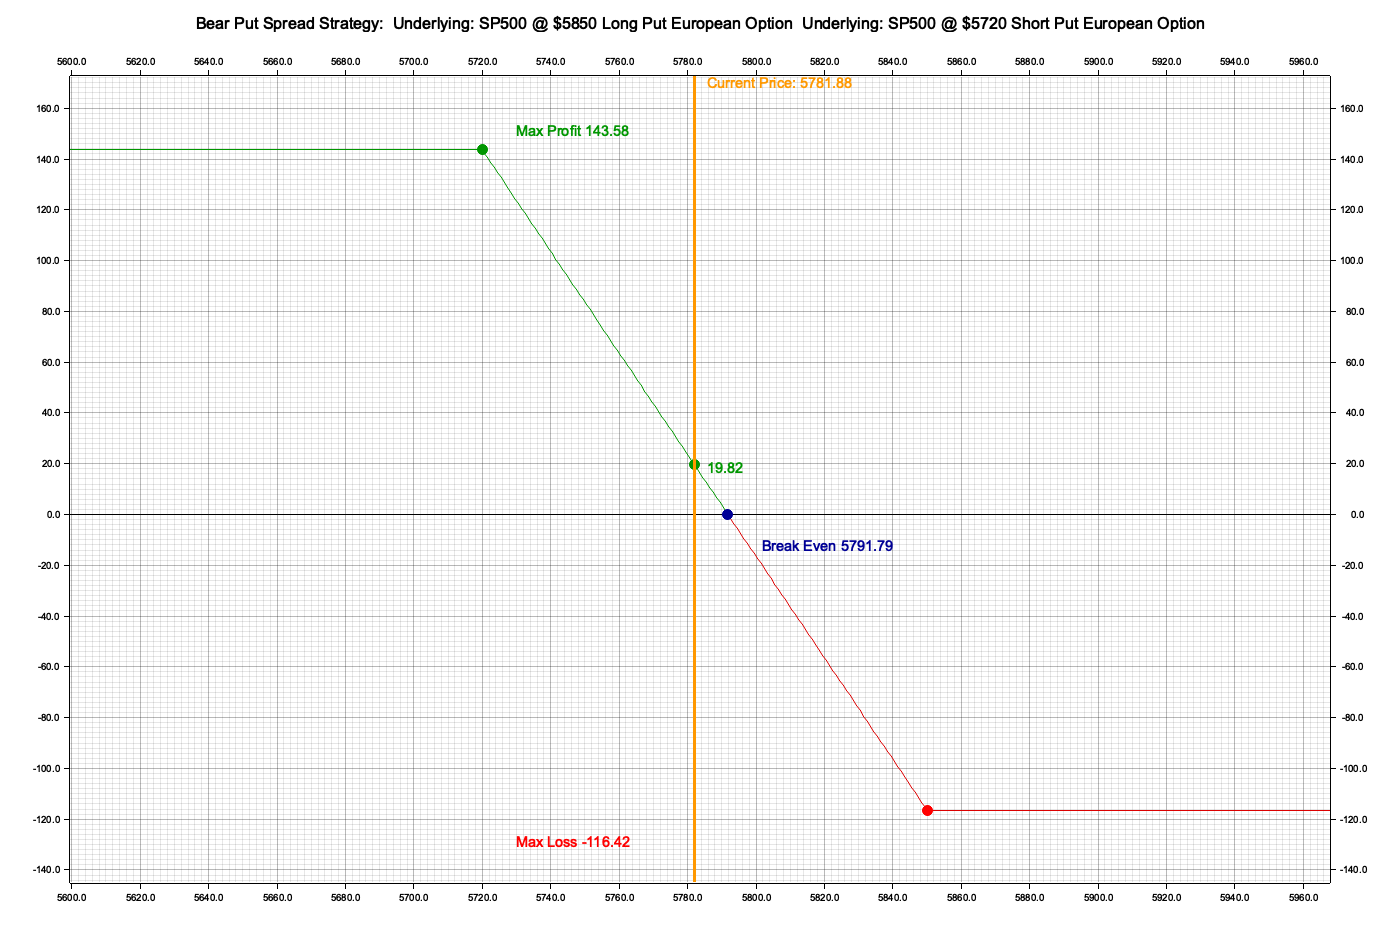
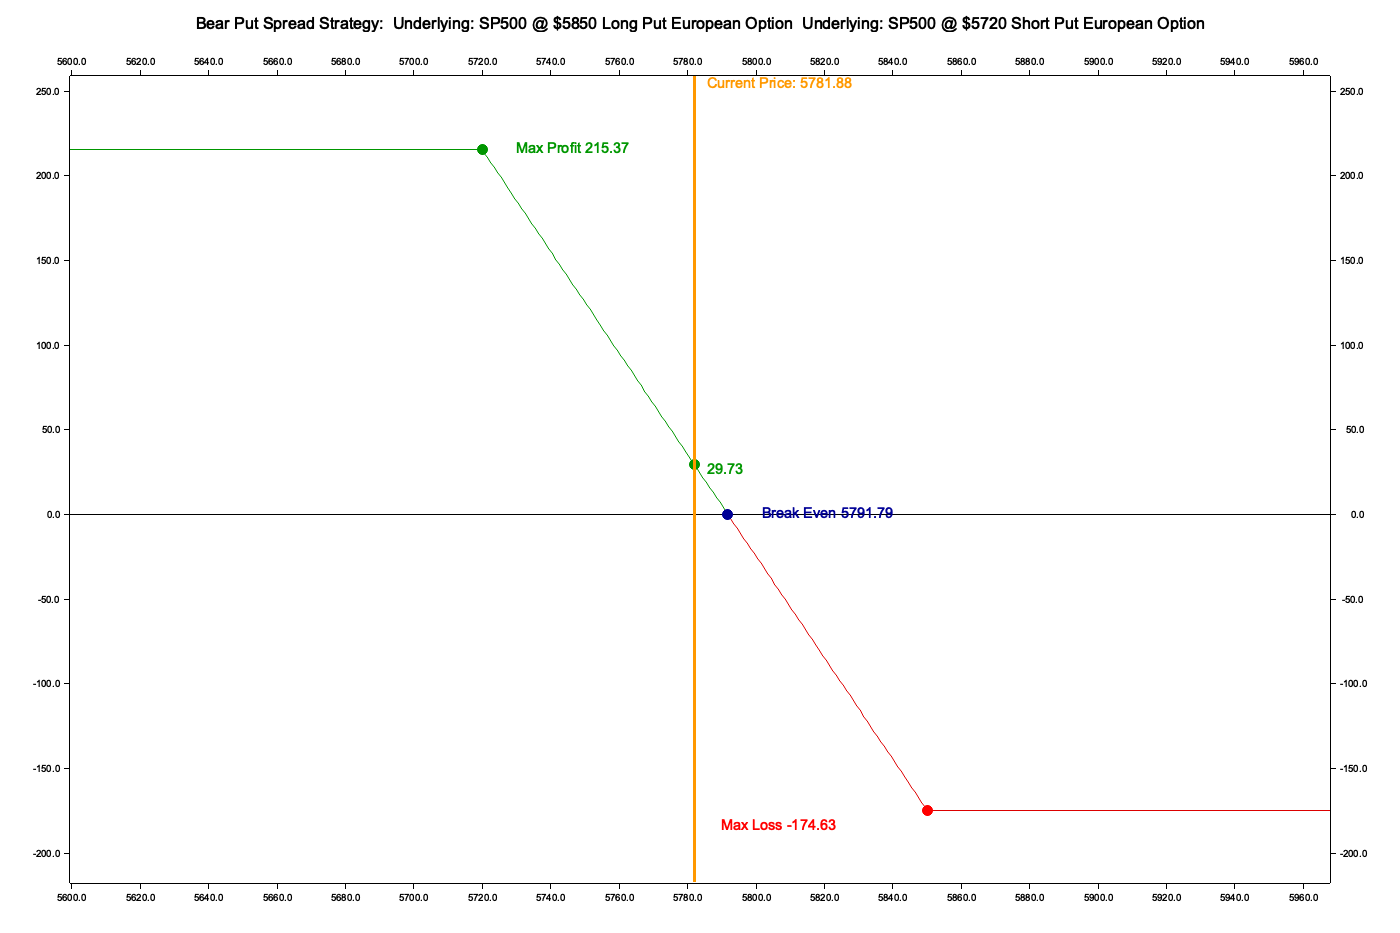
Update bear put spread logic and imports
Adjusted long position quantity and corrected break-even calculation logic. Removed redundant fee calculation method and reorganized imports for better clarity and modularity. (ref. #83)

Changed region(s): [[0.0307, 0.0932, 0.9829, 0.9325]]

diff --git a/src/strategies/bear_put_spread.rs b/src/strategies/bear_put_spread.rs
@@ -14,36 +14,31 @@ Key characteristics:
 - Also known as a vertical put debit spread
 */
 
-use super::base::{Optimizable, Positionable, Strategies, StrategyType, Validable};
+
+use chrono::Utc;
+use num_traits::FromPrimitive;
+use plotters::prelude::full_palette::ORANGE;
+use plotters::prelude::{ShapeStyle, RED};
+use rust_decimal::Decimal;
+use tracing::{debug, info};
+use crate::model::{Position, ProfitLossRange};
+use crate::{d2fu, pos, ExpirationDate, OptionStyle, OptionType, Options, Positive, Side};
 use crate::chains::chain::OptionChain;
-use crate::chains::utils::OptionDataGroup;
 use crate::chains::StrategyLegs;
+use crate::chains::utils::OptionDataGroup;
 use crate::constants::{DARK_BLUE, DARK_GREEN, ZERO};
 use crate::error::position::PositionError;
 use crate::error::probability::ProbabilityError;
 use crate::error::strategies::{ProfitLossErrorKind, StrategyError};
 use crate::greeks::equations::{Greek, Greeks};
-use crate::model::position::Position;
-use crate::model::types::{ExpirationDate, OptionStyle, OptionType, Side};
 use crate::model::utils::mean_and_std;
-use crate::model::ProfitLossRange;
-use crate::pricing::payoff::Profit;
-use crate::strategies::delta_neutral::{
-    DeltaAdjustment, DeltaInfo, DeltaNeutrality, DELTA_THRESHOLD,
-};
-use crate::strategies::probabilities::core::ProbabilityAnalysis;
-use crate::strategies::probabilities::utils::VolatilityAdjustment;
-use crate::strategies::utils::{FindOptimalSide, OptimizationCriteria};
+use crate::pricing::Profit;
+use crate::strategies::base::{Optimizable, Positionable, StrategyType, Validable};
+use crate::strategies::{DeltaAdjustment, DeltaInfo, DeltaNeutrality, FindOptimalSide, Strategies, DELTA_THRESHOLD};
+use crate::strategies::probabilities::{ProbabilityAnalysis, VolatilityAdjustment};
+use crate::strategies::utils::OptimizationCriteria;
 use crate::visualization::model::{ChartPoint, ChartVerticalLine, LabelOffsetType};
 use crate::visualization::utils::Graph;
-use crate::Options;
-use crate::{d2fu, pos, Positive};
-use chrono::Utc;
-use num_traits::{FromPrimitive, ToPrimitive};
-use plotters::prelude::full_palette::ORANGE;
-use plotters::prelude::{ShapeStyle, RED};
-use rust_decimal::Decimal;
-use tracing::{debug, info};
 
 const BEAR_PUT_SPREAD_DESCRIPTION: &str =
     "A bear put spread is created by buying a put option with a higher strike price \
@@ -151,7 +146,7 @@ impl BearPutSpread {
 
         // Calculate break-even point
         strategy.break_even_points.push(
-            long_strike - strategy.net_premium_received().unwrap().to_f64().unwrap() / quantity,
+            long_strike - strategy.net_premium_received().unwrap() / quantity,
         );
 
         strategy
@@ -216,14 +211,7 @@ impl Strategies for BearPutSpread {
         let result = self.long_put.net_cost() - self.short_put.net_premium_received();
         Ok(Decimal::from_f64(result).unwrap())
     }
-
-    fn fees(&self) -> Result<Decimal, StrategyError> {
-        let result = self.long_put.open_fee
-            + self.long_put.close_fee
-            + self.short_put.open_fee
-            + self.short_put.close_fee;
-        Ok(Decimal::from_f64(result).unwrap())
-    }
+    
 
     fn profit_area(&self) -> Result<Decimal, StrategyError> {
         let high = self.max_profit().unwrap_or(Positive::ZERO);
@@ -573,6 +561,7 @@ impl DeltaNeutrality for BearPutSpread {
 
 #[cfg(test)]
 mod tests_bear_put_spread_strategy {
+    use num_traits::ToPrimitive;
     use super::*;
     use crate::model::types::ExpirationDate;
     use crate::pos;
@@ -915,6 +904,7 @@ mod tests_bear_put_spread_validation {
 
 #[cfg(test)]
 mod tests_bear_put_spread_optimization {
+    use num_traits::ToPrimitive;
     use super::*;
     use rust_decimal_macros::dec;
 

diff --git a/examples/examples_strategies/src/bin/strategy_bear_put_spread.rs b/examples/examples_strategies/src/bin/strategy_bear_put_spread.rs
@@ -28,7 +28,7 @@ fn main() -> Result<(), Box<dyn Error>> {
         pos!(0.18),     // implied_volatility
         dec!(0.05),     // risk_free_rate
         Positive::ZERO, // dividend_yield
-        pos!(2.0),      // long quantity
+        pos!(3.0),      // long quantity
         85.04,          // premium_long
         29.85,          // premium_short
         0.78,           // open_fee_long
